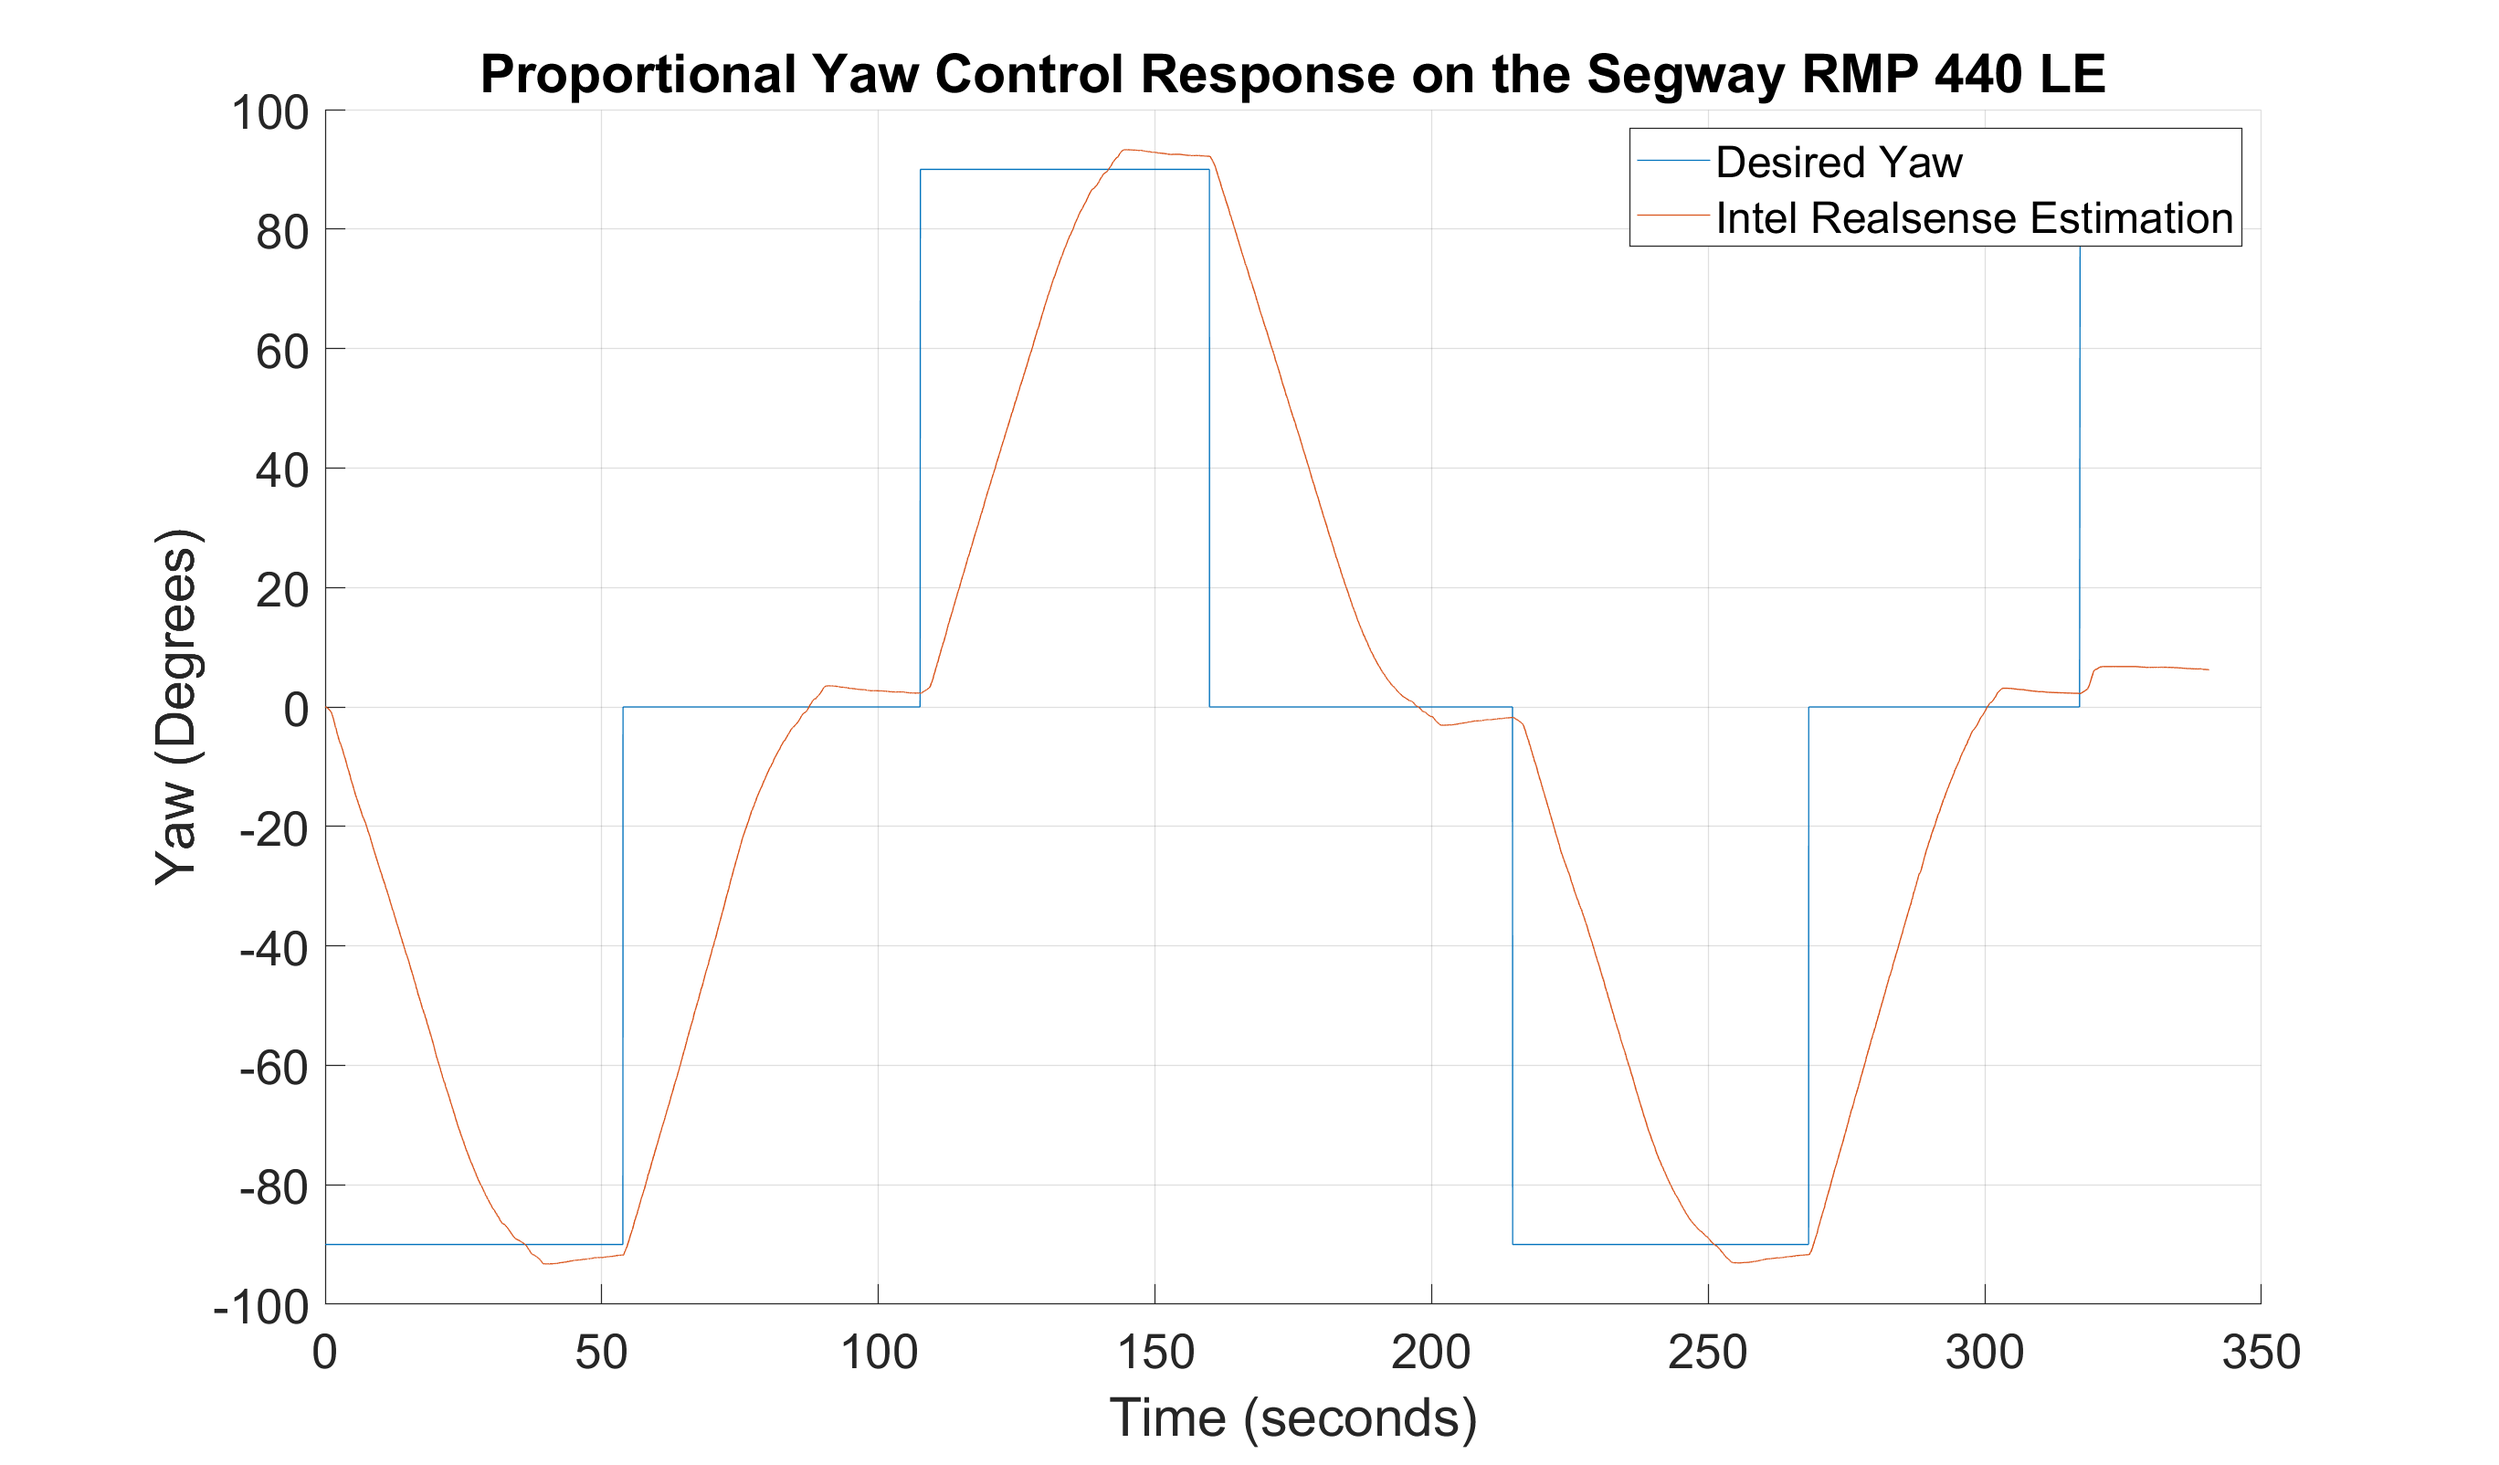
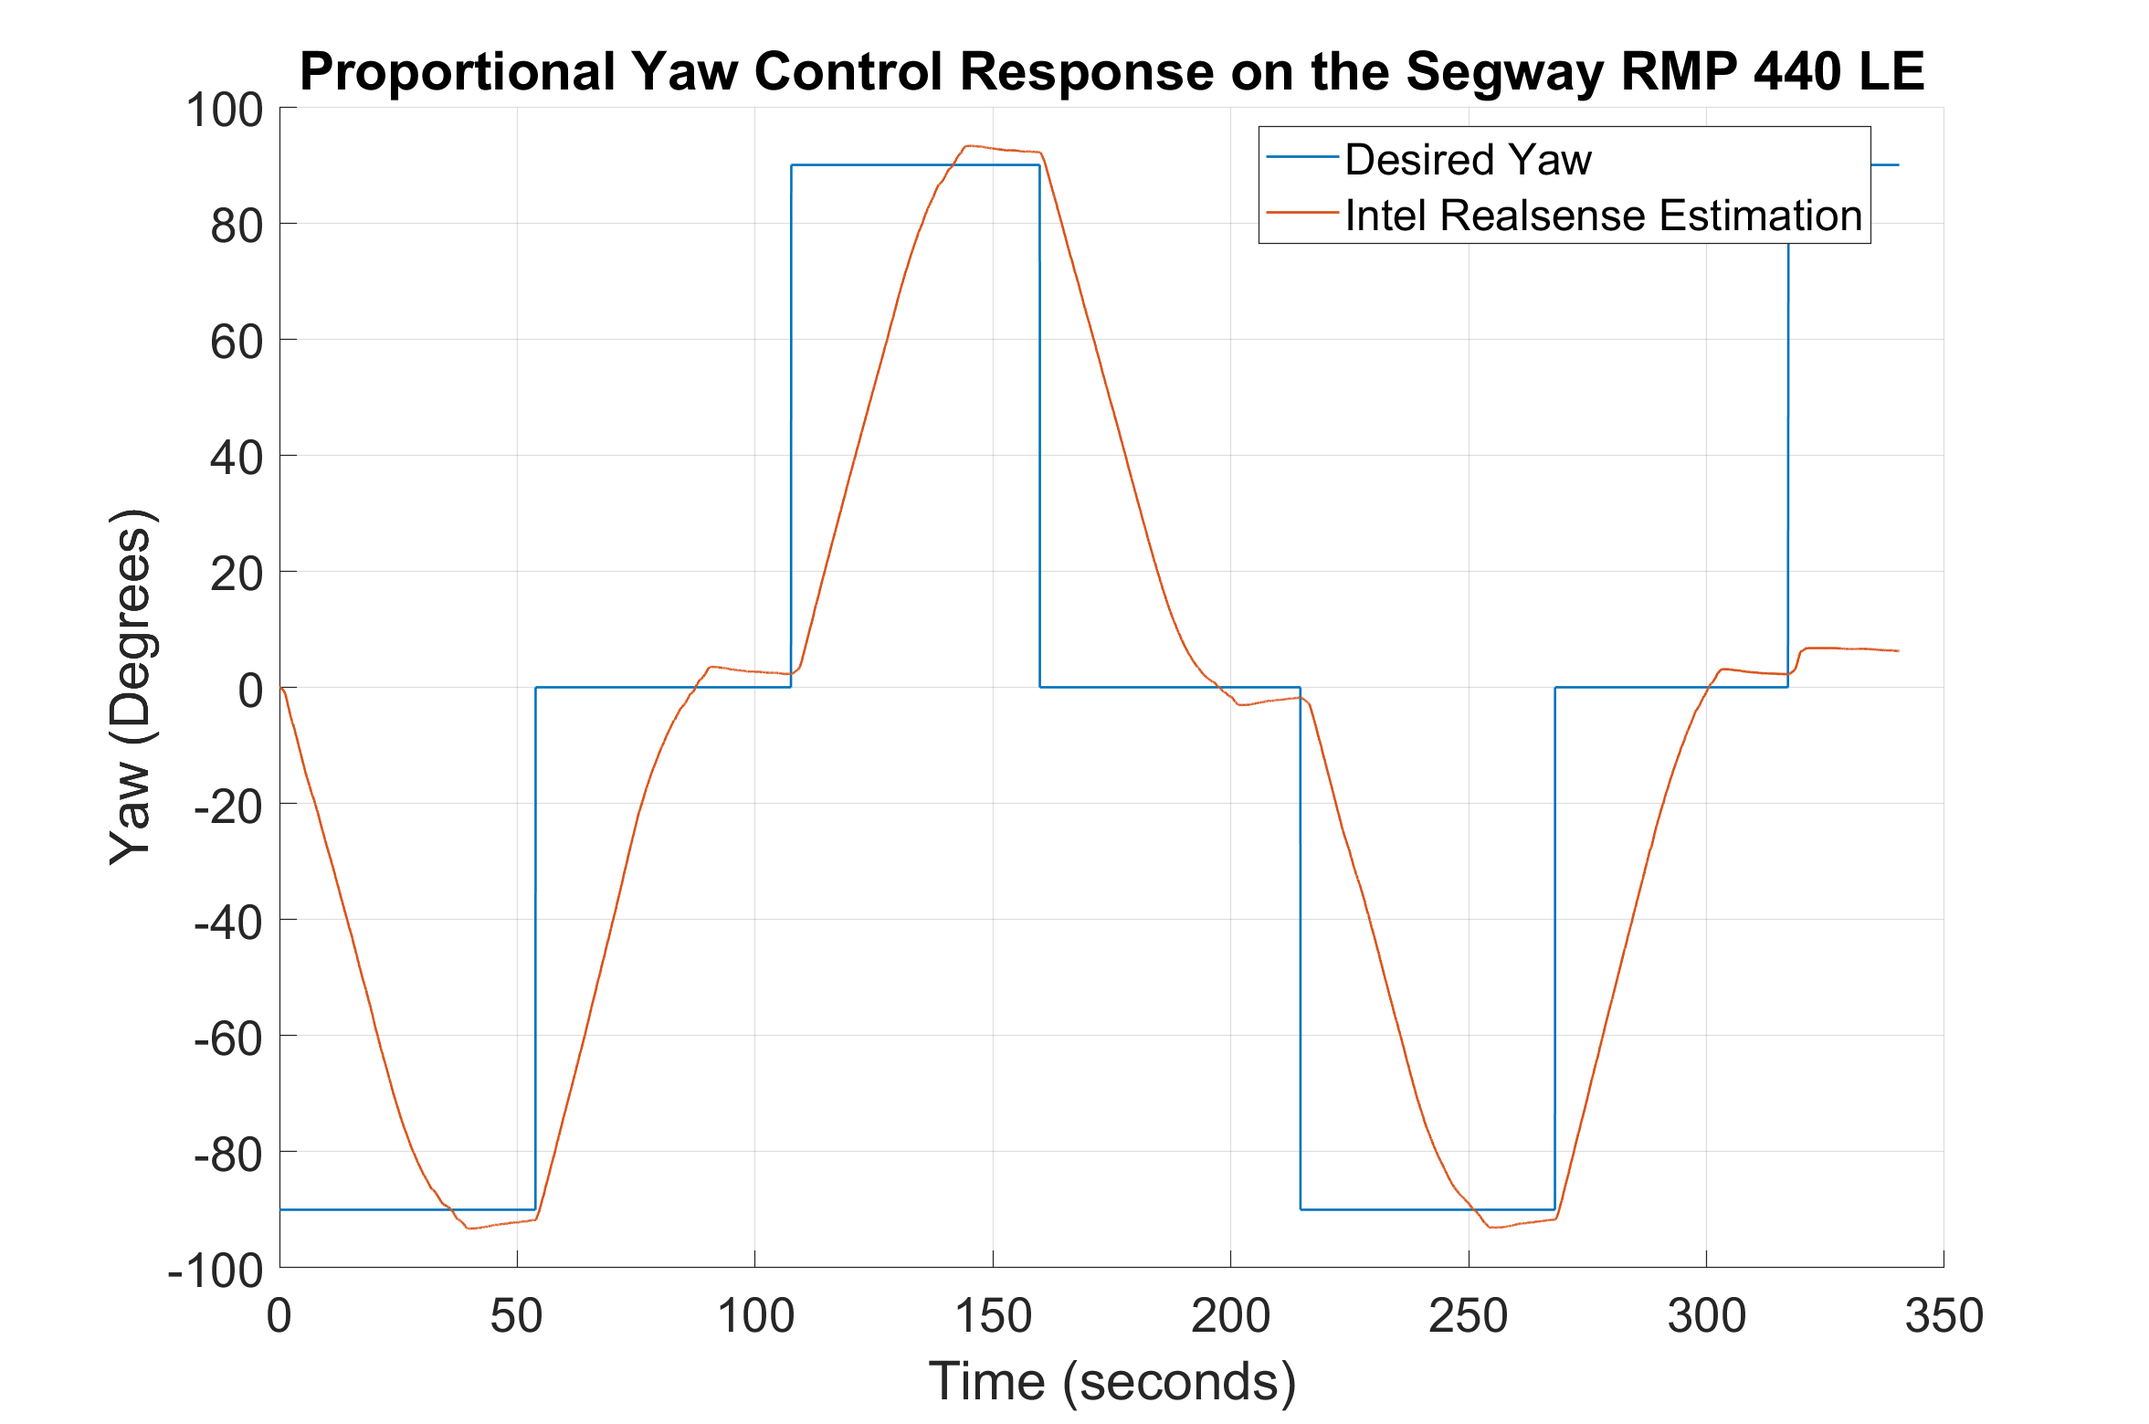
Update Plotting
Create an update for the plotting of the Yaw Results

diff --git a/development/ApriltagPlottingTest.m b/development/ApriltagPlottingTest.m
@@ -1,0 +1,197 @@
+clear;
+close all;
+clc;
+
+%% Comment one of these out
+
+% Zachary Lacey Microsoft Surface
+%pathToNavigationLogs = 'C:\Users\zlace\OneDrive\Documents\AMAV\Lunar-Rover-2020\development\data_analysis\Navigation';
+
+%Zachary Lacey Dell Laptop
+pathToNavigationLogs = 'D:\Lunar-Rover-2020\development\data_analysis\Apriltag'
+
+%%
+cd(pathToNavigationLogs)
+%%
+[file1,path1] = uigetfile('*.log');
+
+[file2,path2] = uigetfile('*.log');
+
+[file3,path3] = uigetfile('*.log');
+
+[file4,path4] = uigetfile('*.log');
+
+[file5,path5] = uigetfile('*.log');
+
+[file6,path6] = uigetfile('*.log');
+
+[file7,path7] = uigetfile('*.log');
+
+[file8,path8] = uigetfile('*.log');
+
+
+file1
+filepath1 = [path1 file1];
+data1 = csvread(filepath1);
+
+file2
+filepath2 = [path2 file2];
+data2 = csvread(filepath2);
+
+file3
+filepath3 = [path3 file3];
+data3 = csvread(filepath3);
+
+file4
+filepath4 = [path4 file4];
+data4 = csvread(filepath4);
+
+file5
+filepath5 = [path5 file5];
+data5 = csvread(filepath5);
+
+file6
+filepath6 = [path6 file6];
+data6 = csvread(filepath6);
+
+file7
+filepath7 = [path7 file7];
+data7 = csvread(filepath7);
+
+file8
+filepath8 = [path8 file8];
+data8 = csvread(filepath8);
+
+%%      [ID         Size         Time        X           Y          Z     ];
+
+Data1 = [data1(:,1) data1(:,2) data1(:,3) data1(:,4) data1(:,5) data1(:,6)];
+Data2 = [data2(:,1) data2(:,2) data2(:,3) data2(:,4) data2(:,5) data2(:,6)];
+Data3 = [data3(:,1) data3(:,2) data3(:,3) data3(:,4) data3(:,5) data3(:,6)];
+Data4 = [data4(:,1) data4(:,2) data4(:,3) data4(:,4) data4(:,5) data4(:,6)];
+Data5 = [data5(:,1) data5(:,2) data5(:,3) data5(:,4) data5(:,5) data5(:,6)];
+Data6 = [data6(:,1) data6(:,2) data6(:,3) data6(:,4) data6(:,5) data6(:,6)];
+Data7 = [data7(:,1) data7(:,2) data7(:,3) data7(:,4) data7(:,5) data7(:,6)];
+Data8 = [data8(:,1) data8(:,2) data8(:,3) data8(:,4) data8(:,5) data8(:,6)];
+
+%%
+
+numel(Data1(:,1));
+Data2Array = Data2(1:numel(Data1(:,1)),:);
+Data3Array = Data3(1:numel(Data1(:,1)),:);
+
+DataError1_2X = Data1(:,4) - Data2Array(:,4);
+DataError1_2Z = Data1(:,6) - Data2Array(:,6);
+
+DataError1_2 = sqrt(DataError1_2X.^2 + DataError1_2Z.^2)
+
+DataError3_2X = Data2Array(:,4) - Data3Array(:,4);
+DataError3_2Z = Data2Array(:,6) - Data3Array(:,6);
+
+DataError3_2 = sqrt(DataError3_2X.^2 + DataError3_2Z.^2)
+
+DataError1_3X = Data1(:,4) - Data3Array(:,4);
+DataError1_3Z = Data1(:,6) - Data3Array(:,6);
+
+DataError1_3 = sqrt(DataError1_3X.^2 + DataError1_3Z.^2)
+
+% figure(1)
+% subplot(2,1,1)
+% hold on
+% plot(Data1(:,3),Data3Array(:,4),'LineWidth', 1)
+% plot(Data1(:,3),Data2Array(:,4),'LineWidth', 1)
+% plot(Data1(:,3),Data1(:,4),'LineWidth', 1)
+% title('Position X vs Time for Apriltags, 70 cm Away')
+% axis([0 30 -0.3 0.2])
+% xlabel('Time (seconds)');
+% ylabel('Position X (meters)');
+% legend('Tag ID: 0','Tag ID: 1', 'Tag ID: 2');
+% grid on 
+% set(gca, 'FontSize',20);
+% hold off 
+% 
+% subplot(2,1,2)
+% hold on
+% plot(Data1(:,3),Data3Array(:,6),'LineWidth', 1)
+% plot(Data1(:,3),Data2Array(:,6),'LineWidth', 1)
+% plot(Data1(:,3),Data1(:,6),'LineWidth', 1)
+% title('Position Z vs Time for Apriltags, 70 cm Away')
+% axis([0 30 0.2 0.22])
+% xlabel('Time (seconds)');
+% ylabel('Position Z (meters)');
+% legend('Tag ID: 0','Tag ID: 1', 'Tag ID: 2');
+% grid on 
+% set(gca, 'FontSize',20);
+% hold off  
+
+
+Actual = ones(numel(Data1(:,1)))*(8.5)*2.54/100;
+figure(2)
+hold on
+plot(Data1(:,3),DataError1_2,'LineWidth', 1)
+plot(Data1(:,3),DataError3_2,'LineWidth', 1)
+plot(Data1(:,3),Actual, '--m', 'LineWidth', 2)
+title('Distance Between the Apriltags Centroids vs Time')
+xlabel('Time (seconds)');
+ylabel('Distance (meters)');
+legend('Distance Error Between Tag ID: 1 and Tag ID: 2','Distance Error Between Tag ID: 0 and Tag ID: 1','Actual Measured Distance Error');
+axis([0 30 0.21 0.22])
+grid on 
+set(gca, 'FontSize',20);
+hold off  
+
+% plot(Data1(:,3),DataError1_3)
+% figure(1)
+% subplot(3,1,1)
+% hold on 
+% plot(Data1(:,3), Data1(:,4))
+% plot(Data2(:,3), Data2(:,4))
+% plot(Data3(:,3), Data3(:,4))
+% plot(Data4(:,3), Data4(:,4))
+% plot(Data5(:,3), Data5(:,4))
+% plot(Data6(:,3), Data6(:,4))
+% plot(Data7(:,3), Data7(:,4))
+% plot(Data8(:,3), Data8(:,4))
+% hold off 
+% 
+% subplot(3,1,2)
+% hold on 
+% plot(Data1(:,3), Data1(:,5))
+% plot(Data2(:,3), Data2(:,5))
+% plot(Data3(:,3), Data3(:,5))
+% plot(Data4(:,3), Data4(:,5))
+% plot(Data5(:,3), Data5(:,5))
+% plot(Data6(:,3), Data6(:,5))
+% plot(Data7(:,3), Data7(:,5))
+% plot(Data8(:,3), Data8(:,5))
+% hold off 
+% 
+% subplot(3,1,3)
+% hold on 
+% plot(Data1(:,3), Data1(:,6))
+% plot(Data2(:,3), Data2(:,6))
+% plot(Data3(:,3), Data3(:,6))
+% plot(Data4(:,3), Data4(:,6))
+% plot(Data5(:,3), Data5(:,6))
+% plot(Data6(:,3), Data6(:,6))
+% plot(Data7(:,3), Data7(:,6))
+% plot(Data8(:,3), Data8(:,6))
+% hold off 
+% 
+% figure(2)
+% hold on 
+% plot(Data1(:,3), Data1(:,4))
+% plot(Data2(:,3), Data2(:,4))
+% plot(Data3(:,3), Data3(:,4))
+% plot(Data4(:,3), Data4(:,4))
+% plot(Data5(:,3), Data5(:,4))
+% plot(Data6(:,3), Data6(:,4))
+% hold off 
+% 
+% figure(3)
+% hold on
+% plot(Data1(:,4), Data1(:,6))
+% plot(Data2(:,4), Data2(:,6))
+% plot(Data3(:,4), Data3(:,6))
+% plot(Data4(:,4), Data4(:,6))
+% plot(Data5(:,4), Data5(:,6))
+% plot(Data6(:,4), Data6(:,6))

diff --git a/development/YawControlPlotting.m b/development/YawControlPlotting.m
@@ -6,8 +6,15 @@ clc;
 plotVIO = 1;
 plotDesiredPose = 1;
 plotVelocityCmd = 0;
+%% Comment one of these out
 
-pathToNavigationLogs = 'C:\Users\zlace\OneDrive\Documents\AMAV\Lunar-Rover-2020\development\data_analysis\Navigation';
+% Zachary Lacey Microsoft Surface
+%pathToNavigationLogs = 'C:\Users\zlace\OneDrive\Documents\AMAV\Lunar-Rover-2020\development\data_analysis\Navigation';
+
+%Zachary Lacey Dell Laptop
+pathToNavigationLogs = 'D:\Lunar-Rover-2020\development\data_analysis\Navigation'
+
+%%
 cd(pathToNavigationLogs)
 
 % VIO file SELECT This Only
@@ -72,8 +79,8 @@ end
 
 figure(1)
 hold on
-plot(TimeVIO, rad2deg(DesiredYaw))
-plot(TimeVIO, OrientationPsiVIO)
+plot(TimeVIO, rad2deg(DesiredYaw),'LineWidth', 1)
+plot(TimeVIO, OrientationPsiVIO,'LineWidth', 1)
 title('Proportional Yaw Control Response on the Segway RMP 440 LE');
 xlabel('Time (seconds)');
 ylabel('Yaw (Degrees)');
@@ -84,13 +91,35 @@ hold off
 
 figure(2)
 subplot(2,1,1)
-plot(TimeVIO, DesiredPositionX);
-hold on
-plot(TimeVIO, PositionXVIO);
+plot(TimeVIO, PositionXVIO,'LineWidth', 1);
+title('Estimated Position X vs Time of the Intel Realsense T265');
+xlabel('Time (seconds)');
+ylabel('Position X (meters)');
+legend('Intel Realsense Estimation')
+grid on 
+set(gca, 'FontSize',24);
 hold off
 
 subplot(2,1,2)
-plot(TimeVIO, DesiredPositionY);
-hold on
-plot(TimeVIO, PositionYVIO);
+plot(TimeVIO, DesiredPositionY,'LineWidth', 1);
+plot(TimeVIO, PositionYVIO,'LineWidth', 1);
+title('Estimated Position Y vs Time of the Intel Realsense T265');
+xlabel('Time (seconds)');
+ylabel('Position Y (meters)');
+legend('Intel Realsense Estimation')
+grid on 
+set(gca, 'FontSize',24);
+hold off
+
+figure(3)
+% Needed to account for the roations since this is in the Realsense Global
+% Frame which has a 90 Degree offset from the ENU Global Frame
+plot(-PositionYVIO, PositionXVIO,'LineWidth', 1);
+title('Estimated 2D Position of the Intel Realsense T265');
+xlabel('Position Y (meters)');
+ylabel('Position X (meters)');
+legend('Intel Realsense Estimation')
+grid on 
+axis equal
+set(gca, 'FontSize',24);
 hold off

diff --git a/development/Plotting.m b/development/Plotting.m
@@ -7,7 +7,15 @@ plotVIO = 1;
 plotDesiredPose = 1;
 plotVelocityCmd = 0;
 
-pathToNavigationLogs = 'C:\Users\zlace\OneDrive\Documents\AMAV\Lunar-Rover-2020\development\data_analysis\Navigation';
+%% Comment one of these out
+
+% Zachary Lacey Microsoft Surface
+%pathToNavigationLogs = 'C:\Users\zlace\OneDrive\Documents\AMAV\Lunar-Rover-2020\development\data_analysis\Navigation';
+
+%Zachary Lacey Dell Laptop
+pathToNavigationLogs = 'D:\Lunar-Rover-2020\development\data_analysis\Navigation'
+
+%%
 cd(pathToNavigationLogs)
 
 % VIO file SELECT This Only
@@ -84,17 +92,40 @@ hold off
 
 figure(2)
 subplot(2,1,1)
-plot(TimeVIO, DesiredPositionX);
 hold on
+plot(TimeVIO, DesiredPositionX);
 plot(TimeVIO, PositionXVIO);
+title('Estimated Position X vs Time of the Intel Realsense T265');
+xlabel('Time (seconds)');
+ylabel('Position X (meters)');
+legend('Desired X','Intel Realsense Estimation')
+grid on 
+set(gca, 'FontSize',20);
 hold off
 
 subplot(2,1,2)
-plot(TimeVIO, DesiredPositionY);
 hold on
+plot(TimeVIO, DesiredPositionY);
 plot(TimeVIO, PositionYVIO);
+title('Estimated Position Y vs Time of the Intel Realsense T265');
+xlabel('Time (seconds)');
+ylabel('Position Y (meters)');
+legend('Desired Y','Intel Realsense Estimation')
+grid on 
+set(gca, 'FontSize',20);
 hold off
 
 
-
+figure(3)
+% Needed to account for the roations since this is in the Realsense Global
+% Frame which has a 90 Degree offset from the ENU Global Frame
+plot(-PositionYVIO, PositionXVIO);
+title('Estimated 2D Position of the Intel Realsense T265');
+xlabel('Position Y (meters)');
+ylabel('Position X (meters)');
+legend('Intel Realsense Estimation')
+grid on 
+axis equal
+set(gca, 'FontSize',20);
+hold off
 
